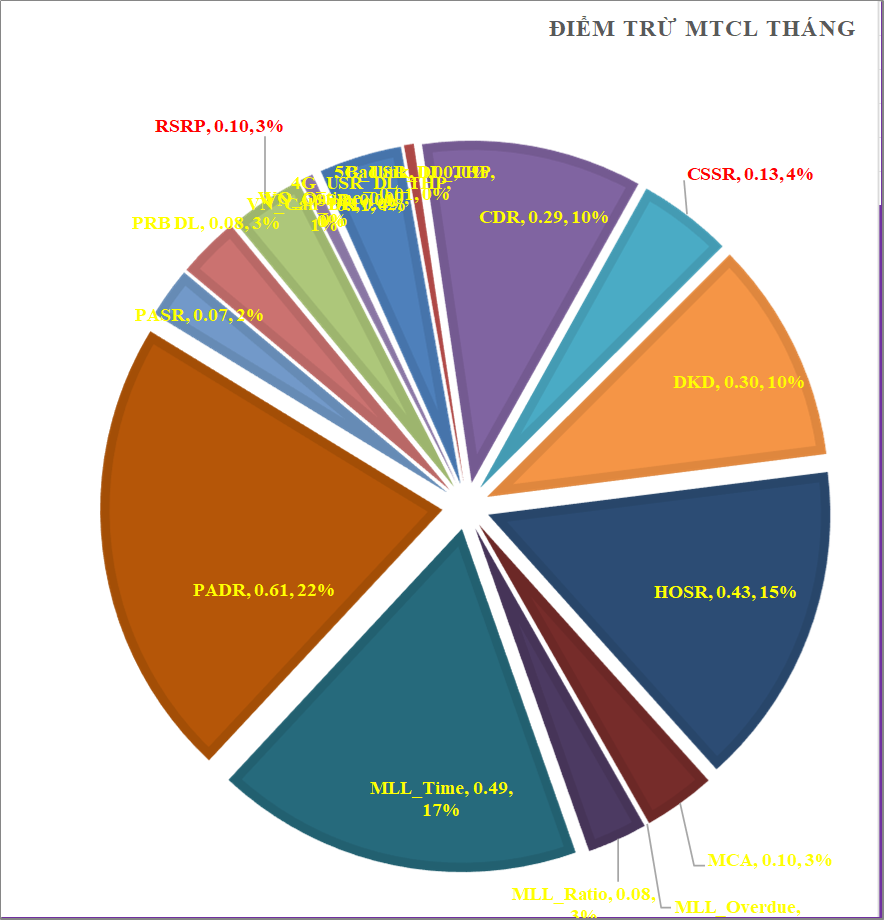
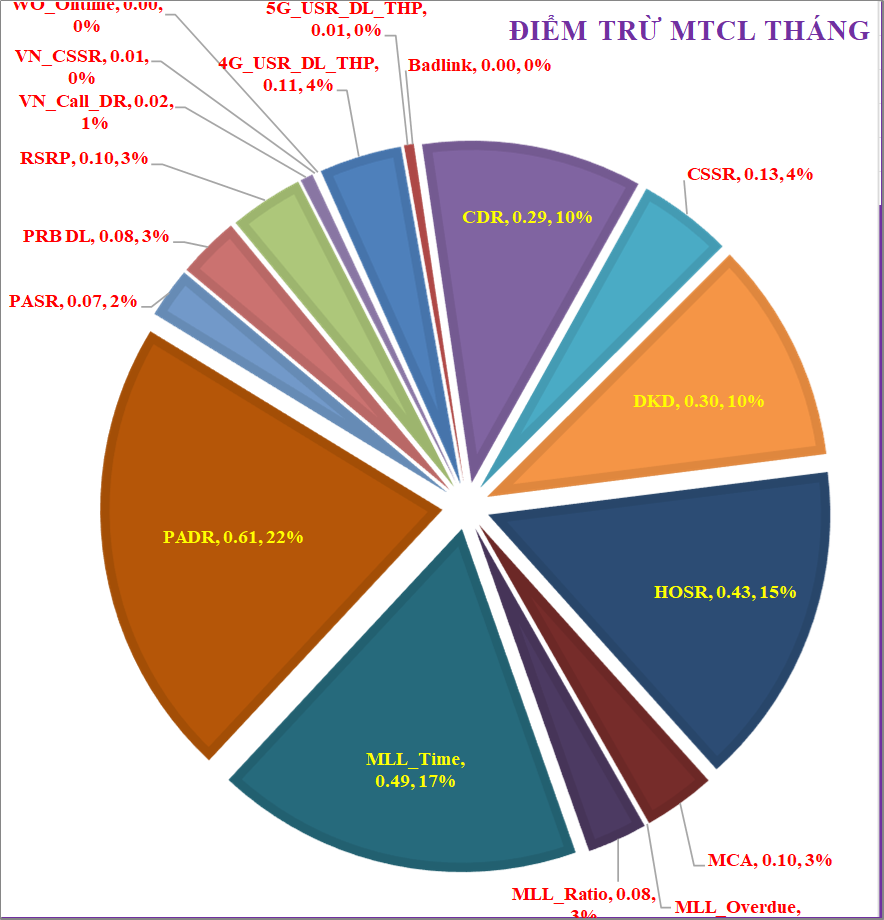
Final Polish & Auto Hide Buttons

diff --git a/index.html b/index.html
@@ -19,23 +19,23 @@
     <div class='page'>
         <div class='header'>
             <h1>GIA LAI NETWORK QUALITY REPORT</h1>
-            <p class='time'>Last updated: 18/10/2026 10:49:48</p>
+            <p class='time'>Last updated: 18/10/2026 11:22:55</p>
         </div>
         <!-- 1. Top Chart (U2:AF34) -->
-        <img src='img1.png?v=104948'>
+        <img src='img1.png?v=112255'>
         <!-- 2. Table 1 (A2:O25) -->
-        <img src='img2.png?v=104948'>
+        <img src='img2.png?v=112255'>
         <!-- 3. Table 2 (C28:L42) -->
-        <img src='img3.png?v=104948'>
+        <img src='img3.png?v=112255'>
         <!-- 4 & 5. Two Pies Side-by-Side (Q5:T34 & Q35:T61) -->
         <div class='row'>
-            <img src='img4.png?v=104948' class='half'>
-            <img src='img5.png?v=104948' class='half'>
+            <img src='img4.png?v=112255' class='half'>
+            <img src='img5.png?v=112255' class='half'>
         </div>
         <!-- 6. Bottom Chart (U35:AH61) -->
-        <img src='img6.png?v=104948'>
-        <img src='img7.png?v=104948'>
-        <img src='img8.png?v=104948'>
+        <img src='img6.png?v=112255'>
+        <img src='img7.png?v=112255'>
+        <img src='img8.png?v=112255'>
     </div>
 </body>
 </html>
